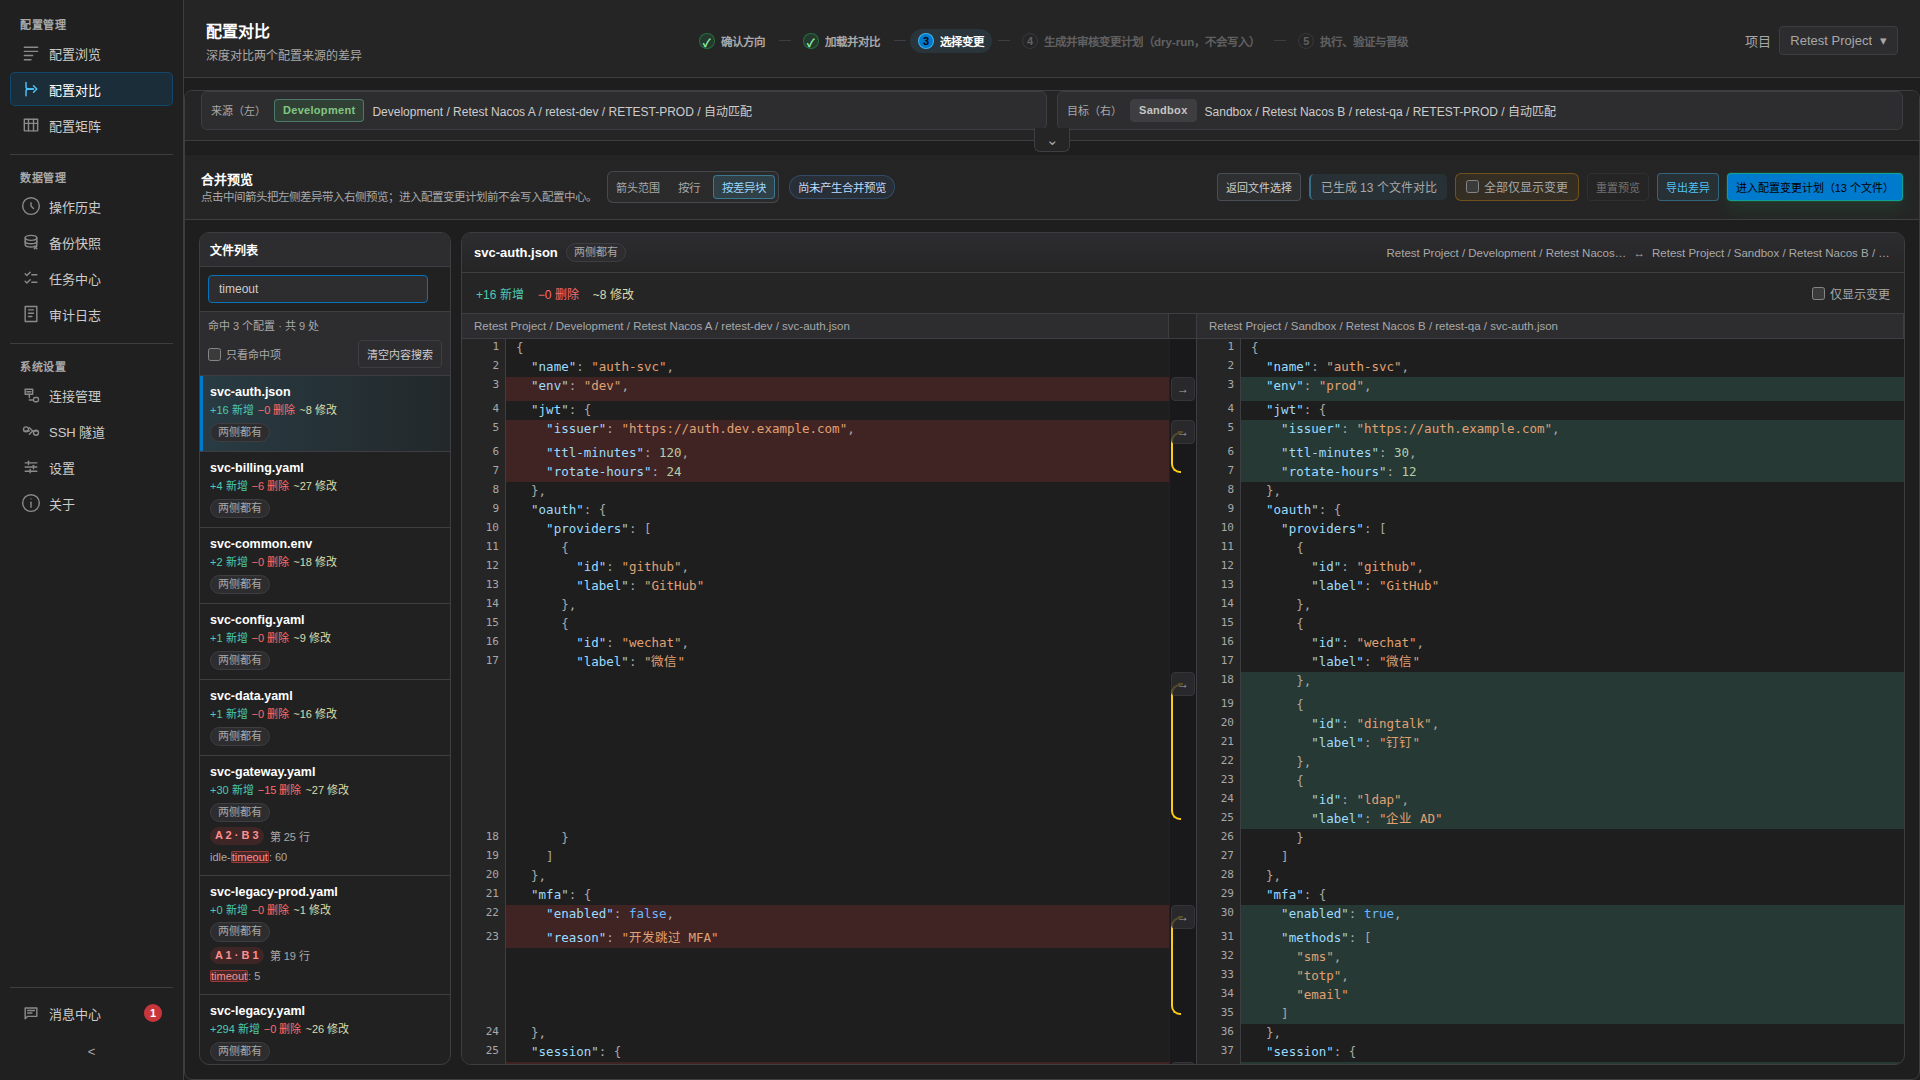
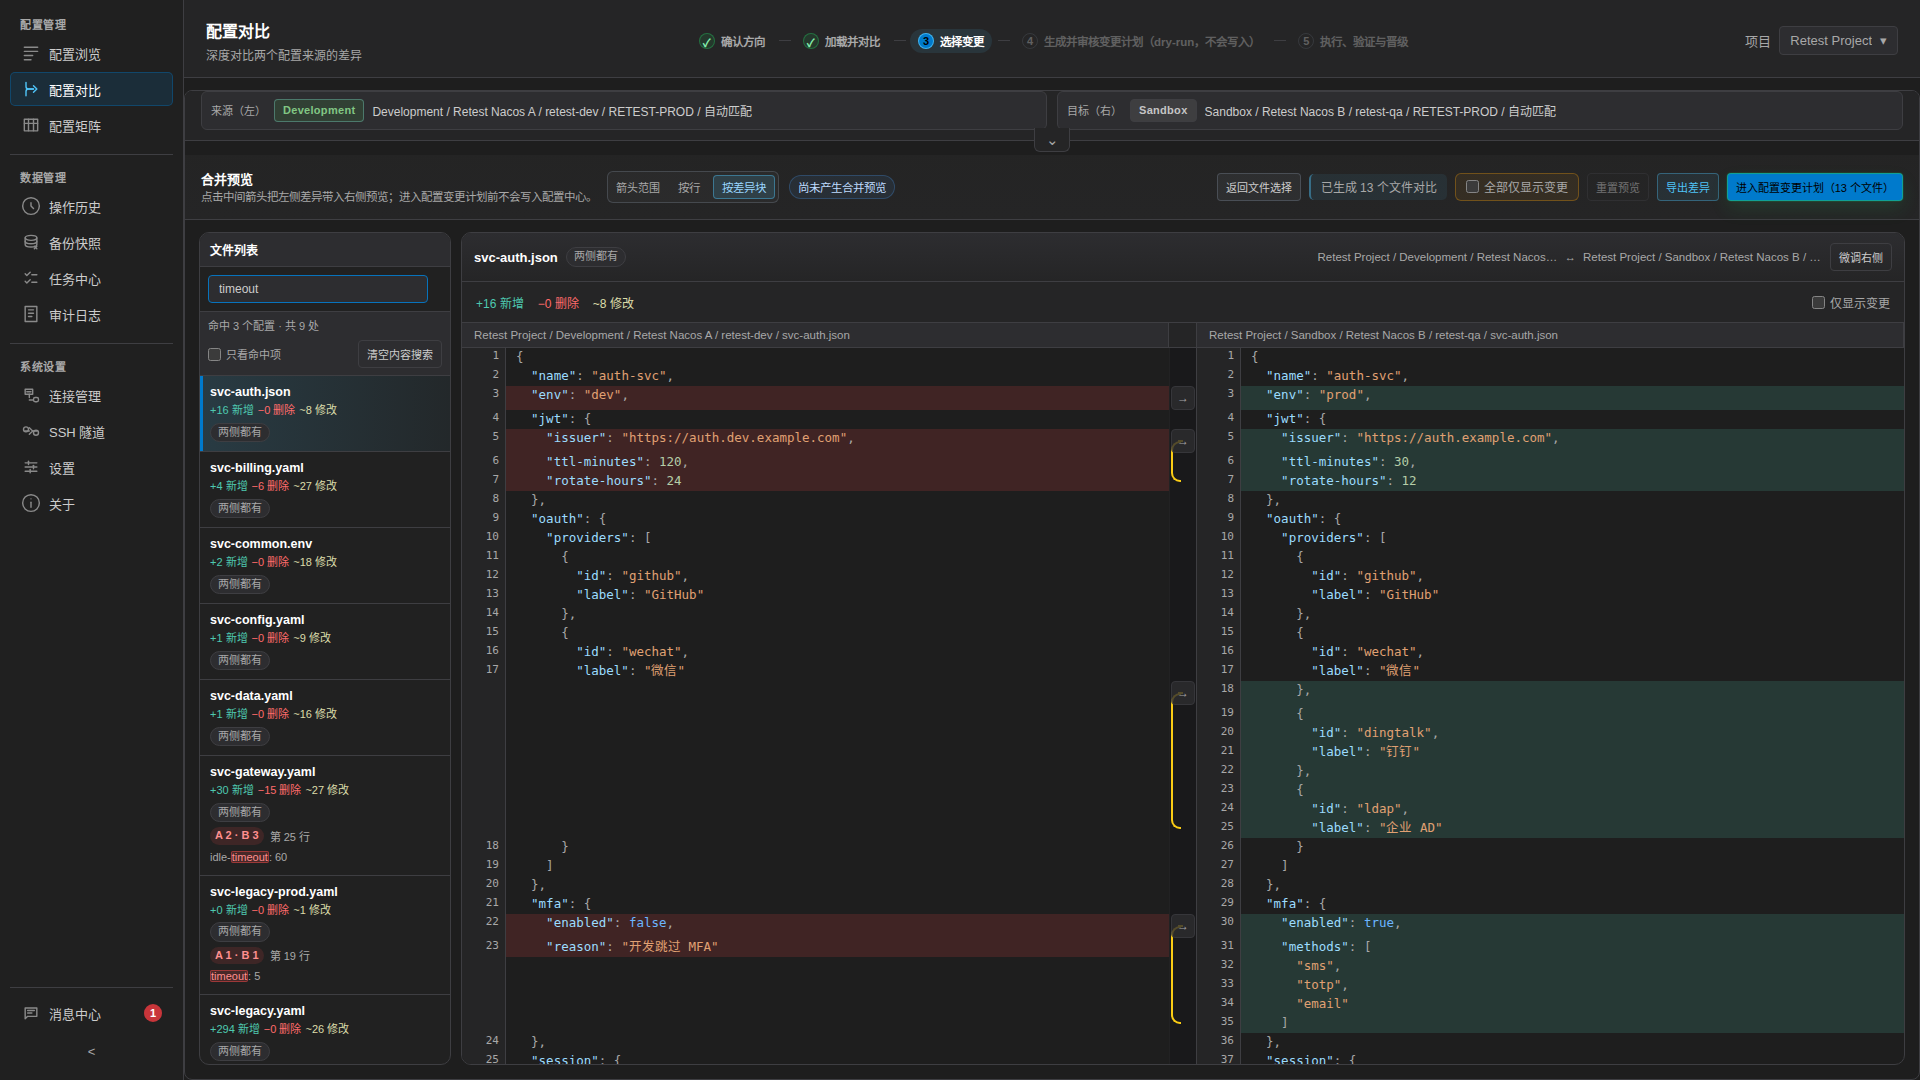
chore(release): 发布 1.9.8
- CHANGELOG 补 1.9.8 段落：本机版本历史（读到正文记一版、写后回读确认再记一版，历史页并列
  服务端历史与本机历史，回滚仍走变更计划）、第 5 步确认文本收敛成可复制的 `APPLY <计划ID>`、
  常驻重启提示可关闭；Fixed 收在全站遮码输入框（一颗开关同时显隐四个框的事故）、读屏名字只剩
  标题、设置页章节导航与数据位置按钮名、清理缓存忙态塌缝、失败错误同屏抄两遍、备份时间体积格式、
  历史读失败不再冒充空历史
- README 与仓库现实对齐：历史能力口径改为「服务端历史只有 Nacos/MSE，本机历史自 1.9.8 起所有
  provider 可达」，核心特性表新增「版本历史」一行，数据边界补 `app-data/config-revisions.jsonl`
  的落点与只追加口径，路线图把「本机版本历史」从后续规划移到已完成
- 配置对比截图用取证脚本重拍刷新（第三步多出「微调右侧」入口），README 对应段落补上人工微调与
  两侧独立选文的说明；已复核名册同步该图的 md5，其余四张逐位一致未动
- package.json 1.9.7 升至 1.9.8，wails.json 的 info.productVersion 同步（安装包版本第二条通道）
- scripts/verify-release-version.sh 六节全绿：版本号四处一致、注入证据含旧写法变异落空、
  发版说明可抽出 53 行、Release 正文可渲染 59 行含 compare 链接
- 门禁复跑：tsc 0 错误 / eslint 0 error 3 既定 warn / gofmt 无输出 / go vet 0 /
  go test 15 个包全 ok / vitest 241 文件 2590 用例全绿 / build:web + check:bundle 通过

diff --git a/tests/ux/publicScreenshotsStaySanitized.test.ts b/tests/ux/publicScreenshotsStaySanitized.test.ts
@@ -63,8 +63,9 @@ const REVIEWED_CAPTURES: Record<string, ReviewedCapture> = {
     note: "跨配置搜 8080，命中项 svc-gateway.yaml",
   },
   "配置对比.png": {
-    md5: "0fca31f51fd7ff2f814c4053d948399c",
-    note: "Retest Nacos A/B 两侧 svc-auth.json，域名是 auth.dev.example.com",
+    md5: "7200e8c19e388a2917dcf80cfb76401f",
+    note: "轮68 重拍：Retest Nacos A/B 两侧 svc-auth.json，域名是 auth.dev.example.com；"
+      + "第三步多出「微调右侧」入口，仍为合成数据",
   },
   "配置矩阵.png": {
     md5: "f14cb3f576d6f845e46964257bf4cc98",

diff --git a/CHANGELOG.md b/CHANGELOG.md
@@ -14,6 +14,62 @@ GitHub Release 正文与应用内更新面板都从这里取（scripts/sync-gith
 scripts/extract-release-notes.mjs），1.0.0 起各段已按 tag 区间提交取证回填。
 -->
 
+## [1.9.8] - 2026-10-24
+
+### Added
+- 配置版本历史不再只靠中间件或云产品。程序自己记下本机见过的每一个版本：读到正文记一版（`observed`），
+  写入并回读确认再记一版（`confirmed-write`）——编辑态草稿与 dry-run 预览不进历史，避免把没落地的内容
+  冒充成版本。历史页由此并列两档来源（服务端历史 / 本机历史），只有两边都可达时才出现切换分段；
+  本机那一版就地给出正文与回滚入口，回滚仍走变更计划五步审核，不新开直写通道。Nacos、MSE 之外的
+  Apollo、Consul 与本地快照同样受益——这三类此前根本没有服务端版本历史可看。
+  存储是数据根下的一份只追加日志（`app-data/config-revisions.jsonl`），换数据目录时整目录跟着走；
+  判重按本地规范化摘要而不是服务端 md5（后者只作对照），所以不会因为某个后端不给摘要就丢记录。
+  单条正文超过 512KB 只留摘要与字节数并明写「超限」：宁可少给一版，也不渲染半截正文冒充完整版本。
+  保留策略是「最早一版锚点 + 最近 50 版」，攒到两倍配额才压缩一次。设置页「数据位置」看得见它的体量与
+  所在路径，也可以单独清掉，不必连着审计日志与缓存一起清。
+- 第 5 步的确认文本变得敲得完也抄得走：原来是一串 80 字符、不可选中、页面上没有复制键的长句子，
+  敲错一个字符或多种一个尾空格都只报「还没输入上方要求的确认文本」；现在收敛成 `APPLY <计划ID>`，
+  可以拖选、有复制键、容忍尾空格，且「没输入」与「不一致」是两句不同的话。
+- 「需重启才能生效」这类常驻提示补上关闭键——以前它要在页面上挂着直到重启为止。
+
+### Fixed
+- 全站遮码输入框收成一份实现（实测 18 处调用点，早先记的 10/12 是普查漏数）：自动填充档位按用途给
+  （新建口令 / 登录口令 / 解密令牌三档）、每框各持一颗回显开关、开关按下后焦点留在输入框。
+  顺带修掉一处真事故：连接表单里一颗开关同时显隐 Apollo Token、Consul Token、密码、AK/SK 四个框，
+  想只看一下其中一个是做不到的。
+- 读屏念出的输入框名字只剩标题本身。此前两类缺陷都靠真机读数才看得见：同一只 label 里坐着按钮时，
+  按钮文字被并进名字（实测 `默认命名空间 ID（留空=public） 加载命名空间`、`dataId (13) 重试配置列表 复制错误`）；
+  同一只 label 里并排两只控件时，隐式关联只认第一只，另一只彻底没名字（连接表单「项目」栏新建时的文本框，
+  实测名字为空——新建连接时两只确实同屏）。现在这几处一律显式指向标题元素。
+- 设置页的章节导航不再是「点了不知道到哪」：点索引项后焦点交给目标章节（读屏与 Tab 都跟得上）、
+  左栏索引回答「现在在哪一节」、切走再回来停在原来那一屏、提示出现时自动滚进可视区（实测有 86px
+  落在可视区外，接了滚动跟随也会被随后长高的路径列表顶出去，所以把提示从节尾搬到节首）。
+- 「清理缓存」的忙态不再塌成一条缝：按钮此前用硬编码的 `…` 表示忙，实测宽度只有 3px、按钮从 82px 塌到
+  一条缝，用户分不清是「在忙」还是「点坏了」；现在给出真实文案并钉住宽度地板，中英文都不跳。
+- 应用失败的同一句长错误不再同屏抄两遍（实测两份逐字相同）。失败详情归到可复制的那一份，进度面板只留
+  状态、进度、任务号；任务带错误而执行结果没跟上、或两者文字不同时，面板那一份照旧显示，不吞信息。
+- 设置页「数据位置」每行的复制与打开各自点得出名（此前 7 行 14 颗按钮的可访问名全是空的，Tab 走查
+  连读 7 遍「复制」「打开」，按下前无从判断是哪一行）。
+- 备份快照面板的时间与体积改成读得懂的格式：不再显示带 Z 带毫秒、和本机差 8 小时的 UTC 原文。
+- 历史页「发布来源」一列此前只有 JSX 里写了类名、样式从未定义过，现在补上样式并允许复制。
+- 本机版本历史读不出来时不再冒充「本机没记过」：目录解析不出、文件打不开、扫描中断一律带错误返回；
+  只有「文件确实不存在」才算空历史。压缩与合并路径在读不出可信结果时拒绝重写——旧写法按空结果重写
+  等于把这份历史删光。
+
+### Engineering
+- 界面与交互的守卫补齐三层：静态普查（新增脏 label、脏按钮名当场红）、jsdom 组件用例、真机永久回归
+  （`99-s-label-name-purity`、`99-s-password-fields-semantics`、`99-s-data-location-action-names`、
+  `99-s-history-local-revisions`、`99-s-apply-confirm-copyable`、`99-s-apply-failure-error-once` 等），
+  每条都做过变异对照——摘掉修复即判红，不留空转断言。
+- 可访问名守卫换成符合 accname 语义的两段式模型：动作类内容判「污染名字」、控件按子树位置判「抢关联」，
+  「在 `<label>` 内」不再无条件算合规（那正是这两类缺陷能长期存在的原因）。
+- 冒烟测试两处清理竞态修掉（`ENOTEMPTY` / `ENOENT` 染红门禁），全量并跑不再偶发未处理异常。
+- 清掉 9 条无人引用的死 CSS 规则（净减 71 行），并同步撤掉指向已消失选择器的过期豁免。
+- 本版不含破坏性变更：本机版本历史是新增的本机存储，读不出来时按「空历史 + 如实说明」降级，
+  已有数据文件与连接配置不需要迁移。门禁实测全绿：类型检查无错误、`eslint src tests` 0 error（3 条既定 warning）、
+  `gofmt` 无输出、`go vet` 无告警、Go 单测 15 包通过、前端构建与产物守卫通过；用例基线由 206 文件 2330 条增至
+  241 文件 2590 条。
+
 ## [1.9.7] - 2026-10-23
 
 ### Added
